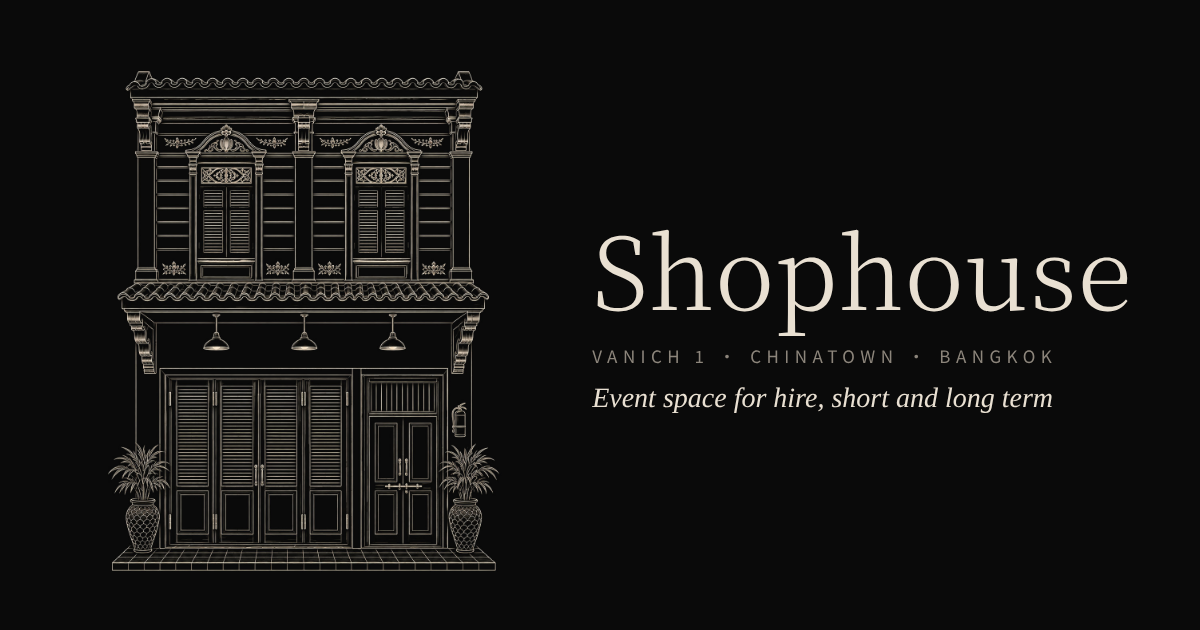
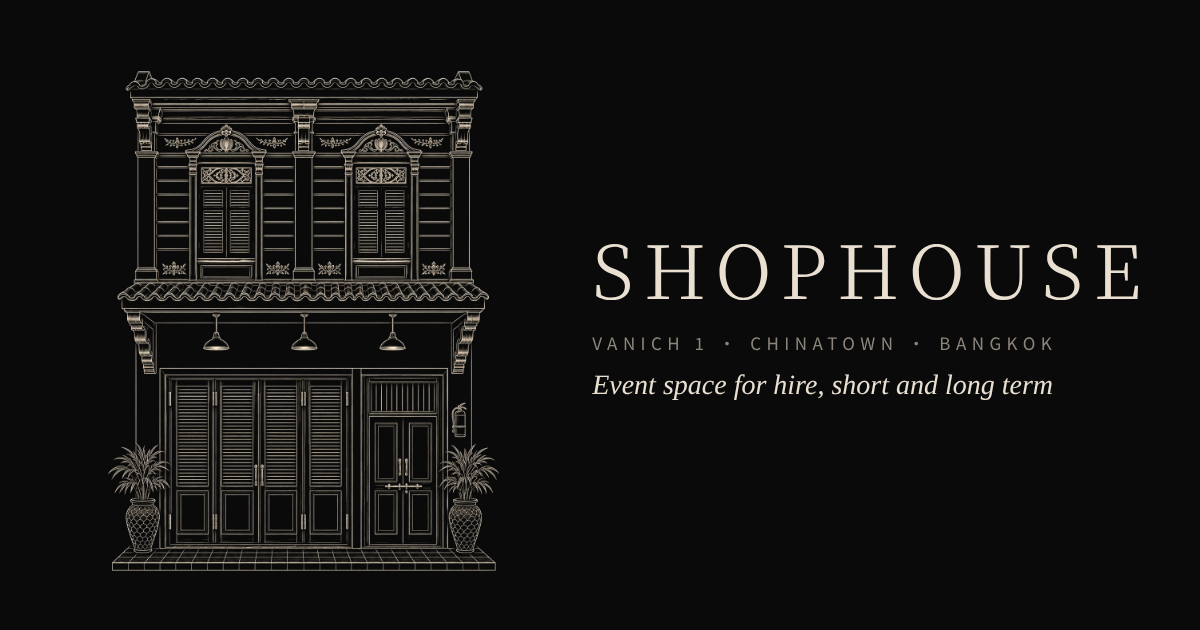
Open with SHOPHOUSE in capitals and the place line, then draw the house on scroll
Claude-Session: https://claude.ai/code/session_01Dy13kaDSzWZVhvMedoxQVQ

Changed region(s): [[0.4933, 0.3619, 0.9558, 0.573], [0.4933, 0.6032, 0.8942, 0.6635], [0.4933, 0.5429, 0.5858, 0.573]]

diff --git a/index.html b/index.html
@@ -36,18 +36,18 @@
   .lang button[aria-pressed="true"] { color: var(--bg); background: var(--line); border-color: var(--line); }
 
   /* the scroll stage */
-  .stage-wrap { position: relative; height: 480vh; }
-  .stage { position: sticky; top: 0; height: 100vh; height: 100svh; display: flex; flex-direction: column; align-items: center; justify-content: center; padding: 0 5vw; overflow: hidden; }
-  .art { position: relative; height: min(62vh, 62svh, calc(92vw * 1.2496)); aspect-ratio: 1122 / 1402; flex: none; }
+  .stage-wrap { position: relative; height: 420vh; }
+  .stage { position: sticky; top: 0; height: 100vh; height: 100svh; overflow: hidden; }
+  .intro { position: absolute; inset: 0; display: flex; flex-direction: column; align-items: center; justify-content: center; text-align: center; padding: 0 5vw; }
+  .topbar { position: fixed; top: 0; left: 0; right: 0; height: 64px; z-index: 9; pointer-events: none; background: linear-gradient(var(--bg) 45%, rgba(10,10,10,0)); }
+  .brand { position: absolute; top: 19px; left: 20px; font-family: var(--serif); font-weight: 300; font-size: 14px; letter-spacing: .32em; text-transform: uppercase; opacity: 0; }
+  .art { position: absolute; left: 50%; top: 50%; transform: translate(-50%, -46%); height: min(82vh, 82svh, calc(90vw * 1.2496)); aspect-ratio: 1122 / 1402; }
   .art svg, .art img { position: absolute; inset: 0; width: 100%; height: 100%; display: block; }
   .art img { opacity: 0; }
   svg.drawing path { fill: none; stroke: var(--line); stroke-width: .9; vector-effect: non-scaling-stroke; stroke-linecap: round; stroke-linejoin: round; stroke-dasharray: 1; stroke-dashoffset: 1; }
-  .word { font-family: var(--serif); font-weight: 300; font-size: clamp(46px, 10vw, 120px); line-height: 1; letter-spacing: .02em; margin: 3.5vh 0 0; opacity: 0; filter: blur(8px); transform: translateY(14px); }
-  .sub { margin-top: 2.2vh; text-align: center; opacity: 0; transform: translateY(8px); }
-  .sub .place { font-size: 12px; letter-spacing: .3em; text-transform: uppercase; color: var(--dim); }
-  .sub .uses { font-family: var(--serif); font-style: italic; font-size: clamp(17px, 2.2vw, 22px); margin-top: 8px; }
-  html[data-lang="th"] .sub .place { letter-spacing: .06em; font-size: 14px; text-transform: none; }
-  html[data-lang="th"] .sub .uses { font-style: normal; }
+  .word { font-family: var(--serif); font-weight: 300; font-size: clamp(40px, 11.5vw, 132px); line-height: 1; letter-spacing: .14em; margin: 0 -.14em 0 0; text-transform: uppercase; }
+  .place { margin: 3.2vh 0 0; font-size: 12px; letter-spacing: .32em; text-transform: uppercase; color: var(--dim); }
+  html[data-lang="th"] .place { letter-spacing: .06em; font-size: 15px; text-transform: none; }
   .hint { position: absolute; bottom: 22px; left: 0; right: 0; text-align: center; font-size: 11px; letter-spacing: .3em; text-transform: uppercase; color: var(--dim); transition: opacity .4s; }
   html[data-lang="th"] .hint { letter-spacing: .05em; text-transform: none; font-size: 13px; }
   .hint i { display: block; width: 1px; height: 30px; background: var(--dim); margin: 8px auto 0; animation: drip 1.8s infinite; }
@@ -80,7 +80,13 @@
   .cta svg { width: 18px; height: 18px; }
   footer { max-width: 980px; margin: 0 auto; padding: 30px 6vw 44px; color: #5f5952; font-size: 13px; display: flex; justify-content: space-between; flex-wrap: wrap; gap: 8px; border-top: 1px solid var(--rule); }
   @media (max-width: 480px) { .terms-row span.d { font-size: 16px; padding: 16px 2px; } }
-  @media (prefers-reduced-motion: reduce) { .stage-wrap { height: auto; } .stage { position: relative; min-height: 100vh; } .hint { display: none; } }
+  @media (max-width: 480px) { .place { font-size: 11px; letter-spacing: .24em; } }
+  @media (prefers-reduced-motion: reduce) {
+    .stage-wrap { height: auto; } .stage { position: relative; height: auto; overflow: visible; display: flex; flex-direction: column; }
+    .intro { order: -1; }
+    .intro { position: relative; height: 100vh; height: 100svh; } .hint { display: none; }
+    .art { position: relative; left: auto; top: auto; transform: none; margin: 0 auto; }
+  }
 </style>
 </head>
 <body>
@@ -90,9 +96,11 @@
   <button type="button" data-set-lang="th" aria-pressed="false">ไทย</button>
 </div>
 
+<div class="topbar"><span class="brand" id="brand" aria-hidden="true">Shophouse</span></div>
+
 <div class="stage-wrap" id="stageWrap">
   <div class="stage">
-    <div class="art">
+    <div class="art" id="art">
       <svg class="drawing" id="drawing" viewBox="0 0 1122 1402" aria-hidden="true">
 <path pathLength="1" data-s="0.045" data-d="0.083" d="M599.8 1331l0-8.2-19.4-0.2l-19.4-0.1 0 8.2c0 4.5 0.2 8.3 0.3 8.5c0.2 0.2 9 0.3 19.4 0.2l19.1-0.2 0-8.2z"/>
 <path pathLength="1" data-s="0.045" data-d="0.083" d="M559.4 1339.1c0.5-0.3 0.6-2.4 0.5-8.4l-0.1-7.9-20 0l-20 0 0.1 8c0.1 4.4 0.3 8.1 0.4 8.3c0.3 0.5 38.3 0.5 39.1 0z"/>
@@ -1427,10 +1435,9 @@
         <img id="facade" src="facade.jpg" width="1122" height="1402" alt="A line drawing of the front of the shophouse: two floors, a tiled awning with three lamps, louvred shutters and a panelled door">
       </picture>
     </div>
-    <h1 class="word" id="word">Shophouse</h1>
-    <div class="sub" id="sub">
-      <div class="place"><span lang="en">Vanich 1 · Chinatown · Bangkok</span><span lang="th">ซอยวานิช 1 · เยาวราช · กรุงเทพฯ</span></div>
-      <div class="uses"><span lang="en">Event space for hire, short and long term</span><span lang="th">พื้นที่จัดงานให้เช่า ทั้งระยะสั้นและระยะยาว</span></div>
+    <div class="intro" id="intro">
+      <h1 class="word">Shophouse</h1>
+      <p class="place"><span lang="en">Vanich 1 · Chinatown · Bangkok</span><span lang="th">ซอยวานิช 1 · เยาวราช · กรุงเทพฯ</span></p>
     </div>
     <div class="hint" id="hint"><span lang="en">Scroll</span><span lang="th">เลื่อนลง</span><i></i></div>
   </div>
@@ -1494,13 +1501,13 @@
   setLang((params.get("lang") || saved || ((navigator.language || "").toLowerCase().indexOf("th") === 0 ? "th" : "en")) === "th" ? "th" : "en");
   document.querySelectorAll("[data-set-lang]").forEach(function (b) { b.addEventListener("click", function () { setLang(b.getAttribute("data-set-lang")); }); });
 
-  // Scroll timeline: 0-0.5 the drawing draws itself from the ground up, 0.47-0.6 the finished drawing fades in,
-  // 0.6-0.75 the word, 0.75-0.88 the line under it.
+  // Scroll timeline: the name first; scrolling fades it out and the house draws itself from the ground up
+  // (0.07-0.69), then the finished drawing fades in (0.66-0.78) and holds before the information below.
   var wrap = document.getElementById("stageWrap");
   var lines = Array.prototype.slice.call(document.querySelectorAll("#drawing [data-s]")).map(function (el) {
     return { el: el, s: parseFloat(el.getAttribute("data-s")), d: parseFloat(el.getAttribute("data-d")), v: -1 };
   });
-  var word = document.getElementById("word"), sub = document.getElementById("sub"), hint = document.getElementById("hint");
+  var intro = document.getElementById("intro"), hint = document.getElementById("hint"), brand = document.getElementById("brand");
   var drawing = document.getElementById("drawing"), facade = document.getElementById("facade");
   var reduce = window.matchMedia && window.matchMedia("(prefers-reduced-motion: reduce)").matches;
   function clamp(x) { return x < 0 ? 0 : x > 1 ? 1 : x; }
@@ -1508,18 +1515,17 @@
   function frame() {
     var span = wrap.offsetHeight - window.innerHeight;
     var P = reduce ? 1 : clamp(-wrap.getBoundingClientRect().top / span);
-    var D = clamp(P / 0.5);
+    var k = reduce ? 0 : ease((P - 0.015) / 0.1);
+    intro.style.opacity = 1 - k; intro.style.transform = "translateY(" + (-28 * k).toFixed(1) + "px)"; intro.style.filter = k > 0 ? "blur(" + (5 * k).toFixed(2) + "px)" : "none";
+    hint.style.opacity = P > 0.015 ? 0 : 1;
+    brand.style.opacity = reduce ? 1 : ease((P - 0.08) / 0.1);
+    var D = clamp((P - 0.07) / 0.62);
     for (var i = 0; i < lines.length; i++) {
       var L = lines[i], t = Math.round(clamp((D - L.s) / L.d) * 1000) / 1000;
       if (t !== L.v) { L.v = t; L.el.style.strokeDashoffset = 1 - t; }
     }
-    var r = ease((P - 0.47) / 0.13);
+    var r = ease((P - 0.66) / 0.12);
     facade.style.opacity = r; drawing.style.opacity = 1 - r;
-    var w = ease((P - 0.6) / 0.15);
-    word.style.opacity = w; word.style.filter = "blur(" + (8 * (1 - w)).toFixed(2) + "px)"; word.style.transform = "translateY(" + (14 * (1 - w)).toFixed(1) + "px)";
-    var s = ease((P - 0.75) / 0.13);
-    sub.style.opacity = s; sub.style.transform = "translateY(" + (8 * (1 - s)).toFixed(1) + "px)";
-    hint.style.opacity = P > 0.03 ? 0 : 1;
   }
   var ticking = false;
   window.addEventListener("scroll", function () { if (!ticking) { ticking = true; requestAnimationFrame(function () { frame(); ticking = false; }); } }, { passive: true });
